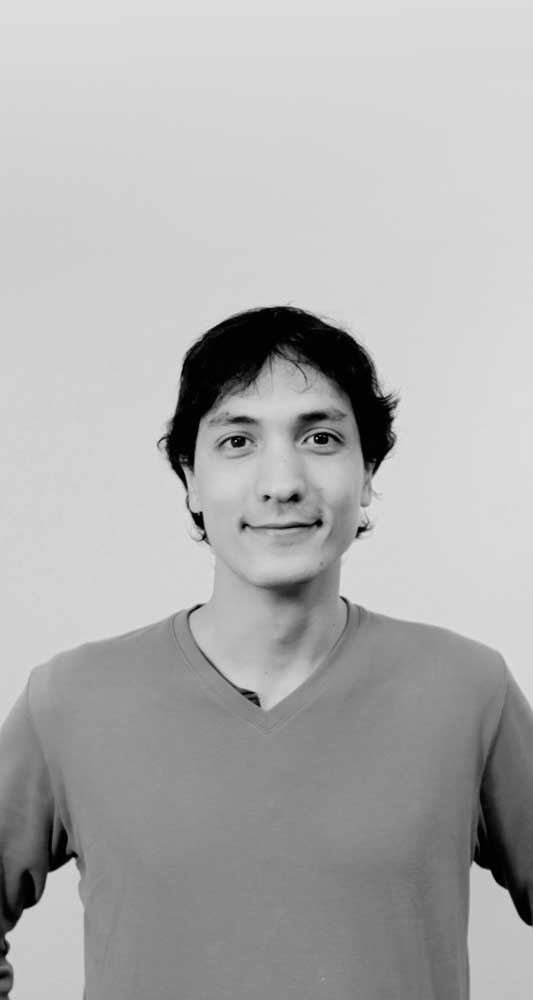
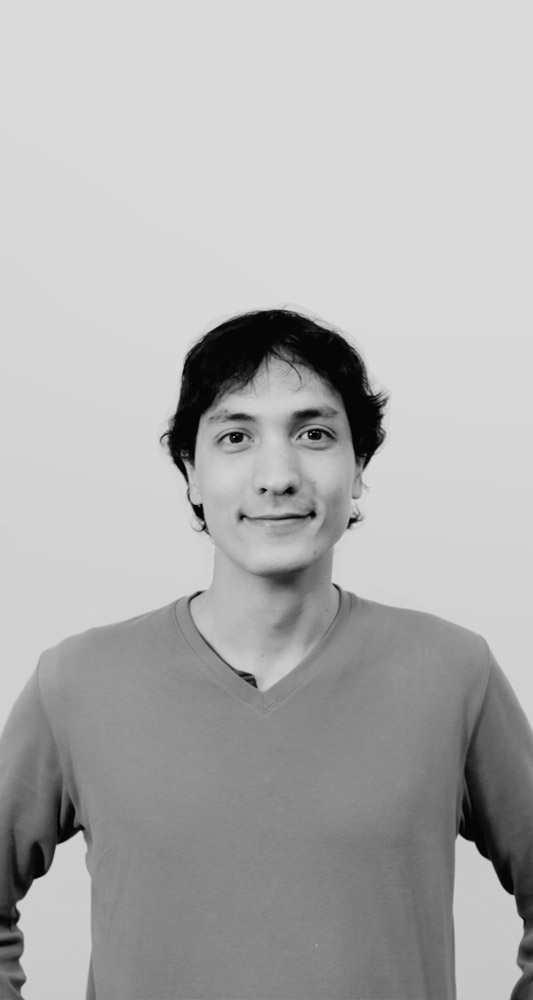
team: removing Clement, adding William

diff --git a/rubrique.html b/rubrique.html
@@ -233,8 +233,8 @@
 						<div class="reach">
 							<div>Touch him with</div>
 							<div>
-								<a data-email="clement" href="#clement" class="email"><img src="#CHEMIN{images/team/mail.png}" alt="Mail"></a>
-								<a href="http://twitter.com/clementthorez" class="tw"><img src="#CHEMIN{images/team/twitter.png}" alt="Twitter"></a>
+								<a data-email="william" href="#william" class="email"><img src="#CHEMIN{images/team/mail.png}" alt="Mail"></a>
+								<a href="https://twitter.com/WilliamFritsch" class="tw"><img src="#CHEMIN{images/team/twitter.png}" alt="Twitter"></a>
 							</div>
 						</div>
 					</div>

diff --git a/js/team.js b/js/team.js
@@ -1,6 +1,6 @@
 var team = {};
 team.$mates = $("section.sec2 .mate")
-team.members = ["stephane","ralf","flo","bruno","clement"];
+team.members = ["stephane","ralf","flo","bruno","william"];
 team.resolutions = [400,600,800,1000,1500];
 team.height = 1000;
 
